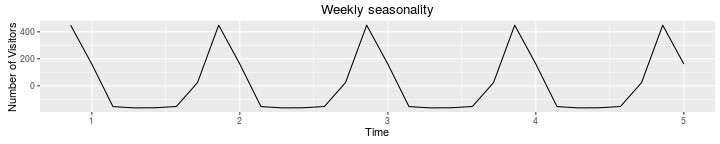
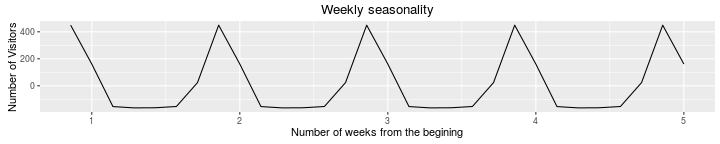
publishing deck

Changed region(s): [[0.3972, 0.8889, 0.6417, 0.9444]]

diff --git a/index.html b/index.html
@@ -187,8 +187,7 @@
   <article data-timings="">
     <p><img src="figure/unnamed-chunk-11-1.png" title="plot of chunk unnamed-chunk-11" alt="plot of chunk unnamed-chunk-11" style="display: block; margin: auto;" /></p>
 
-<pre><code>## Error in +xlab(&quot;Number of weeks from the begining&quot;): invalid argument to unary operator
-</code></pre>
+<p><img src="figure/unnamed-chunk-12-1.png" title="plot of chunk unnamed-chunk-12" alt="plot of chunk unnamed-chunk-12" style="display: block; margin: auto;" /></p>
 
   </article>
   <!-- Presenter Notes -->

diff --git a/index.md b/index.md
@@ -89,10 +89,7 @@ https://inclass.kaggle.com/c/swimming-pool-visitor-forecasting
 ## Forecasting via decomposition
 <img src="figure/unnamed-chunk-11-1.png" title="plot of chunk unnamed-chunk-11" alt="plot of chunk unnamed-chunk-11" style="display: block; margin: auto;" />
 
-
-```
-## Error in +xlab("Number of weeks from the begining"): invalid argument to unary operator
-```
+<img src="figure/unnamed-chunk-12-1.png" title="plot of chunk unnamed-chunk-12" alt="plot of chunk unnamed-chunk-12" style="display: block; margin: auto;" />
 
 ---
 
